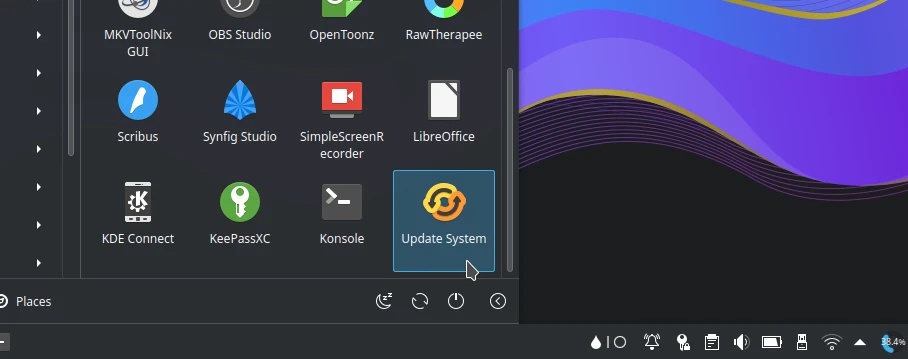
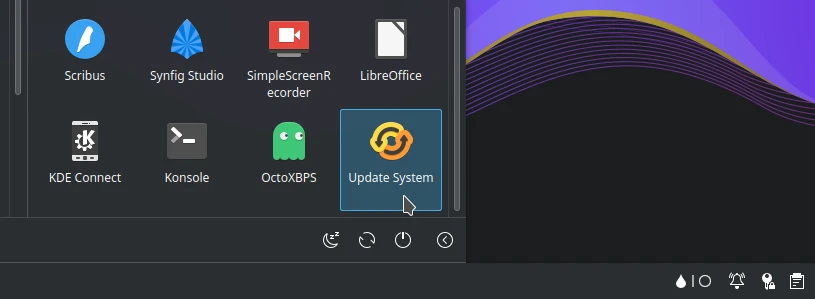
optional update with octoxbps

diff --git a/src/permasalahan/xbps.md b/src/permasalahan/xbps.md
@@ -4,7 +4,7 @@
 
 Jika Anda ketika memasang perangkat lunak dengan `get <pkg>` dan menemui error `in transaction breaks installed pkgs`.
 
-Solusinya dengan [memperbarui sistem operasi](../konfigurasi/pembaruan/index.md) di menu update system. Atau dengan menjalankan:
+Solusinya dengan [memperbarui sistem operasi](../konfigurasi/pembaruan/index.md) atau dengan menjalankan:
 
 ```
 doas l7-tools --update
@@ -19,13 +19,17 @@ Solusinya dengan menjalankan:
 doas rm -rf /etc/sv/bluetoothd/log/supervise
 ```
 
-Tujuannya untuk mengosongkan kembali log supervise bluetoothd yang lama.
+Tujuannya untuk mengosongkan kembali log supervise bluetoothd yang lama. Kemudian ulangi [memperbarui sistem operasi](../konfigurasi/pembaruan/index.md) atau dengan menjalankan:
+
+```
+doas l7-tools --update
+```
 
 ## Unresolvable `shlib`
 
 Jika ada pemberitahuan yang mirip seperti ini `xxxxxxx-x.x_1: broken, unresolvable shlib 'xxxxxx.so.x'`.
 
-Solusinya dengan [memperbarui sistem operasi](../konfigurasi/pembaruan/index.md) di menu update system. Atau dengan menjalankan:
+Solusinya dengan [memperbarui sistem operasi](../konfigurasi/pembaruan/index.md) atau dengan menjalankan:
 
 ```
 doas l7-tools --update

diff --git a/src/konfigurasi/pembaruan/index.md b/src/konfigurasi/pembaruan/index.md
@@ -4,7 +4,7 @@
 
 Sistem operasi LangitKetujuh menggunakan rilis bergulir (rolling release) untuk memperbarui setiap paket, sehingga perangkat lunak yang digunakan relatif terbaru dan lebih sering update. Meskipun demikian, ukuran dependensi lebih kecil dari pada distro pada umumnya.
 
-## Memperbarui sistem
+## Update System
 
 Sebelum memperbarui sistem pastikan sudah terhubung dengan jaringan internet. Kemudian perbarui sistem dengan cara mengklik **Update System** di menu favorit seperti dibawah ini.
 
@@ -19,3 +19,7 @@ Ada 5 tahapan yang dilakukan oleh Update System.
 5. `Remove obsolete and orphans packages?`proses untuk menghapus dependensi kedaluwarsa yang tidak digunakan. `Do you want to continue?` pilih `y` untuk memproses. Secara bawaan memilih `n` untuk tidak memproses.
 
 Pembaruan dapat dilakukan saat memiliki waktu senggang saja, atau ketika ingin menggunakan perangkat lunak versi terbaru.
+
+## OctoXBPS
+
+Pembaruan dapat dilakukan juga melalui octoxbps dengan mengklik "Install" di bagian panel bawah. Adanya paket terbaru ditandai dengan kotak warna merah seperti dibawah ini.
